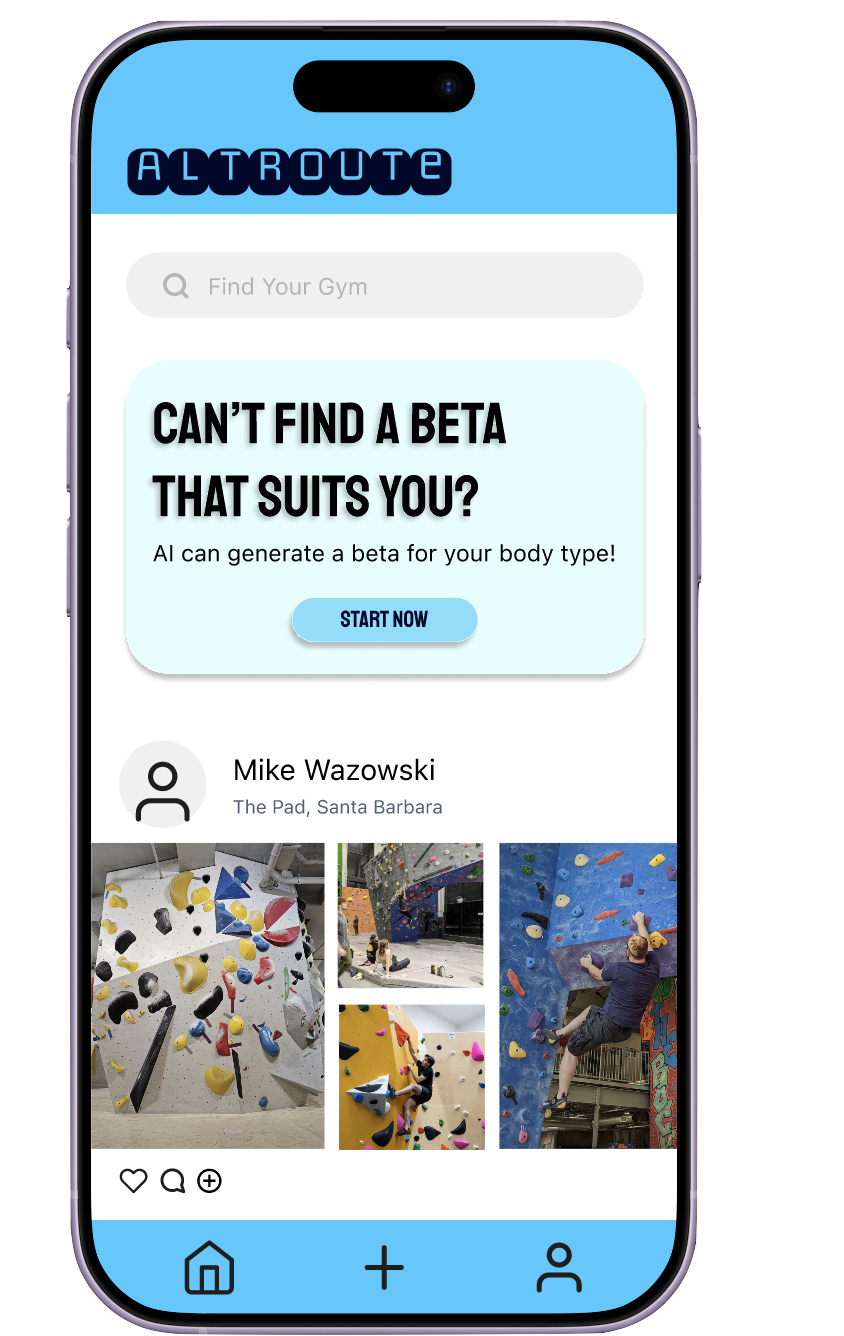
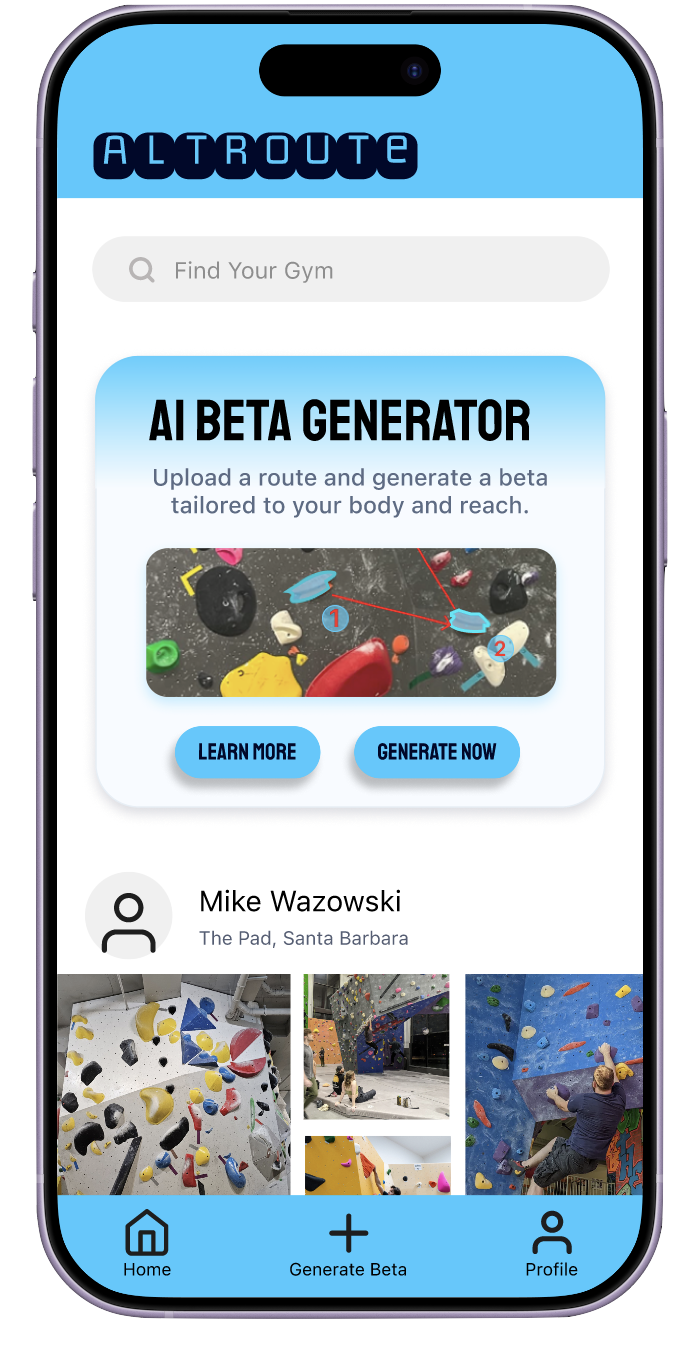
update GR9

diff --git a/index.html b/index.html
@@ -108,7 +108,14 @@ nav {
 .btn-ghost:hover { border-color: white; background: rgba(255,255,255,0.08); }
 
 .hero-right { display: flex; justify-content: center; position: relative; z-index: 1; }
-.phone-wrap { position: relative; width: min(360px, 78vw); animation: float 5s ease-in-out infinite; }
+.phone-wrap {
+  position: relative;
+  width: min(346px, 78vw);
+  animation: float 5s ease-in-out infinite;
+  will-change: transform;
+  transform: translateZ(0);
+  backface-visibility: hidden;
+}
 @keyframes float { 0%,100%{transform:translateY(0)} 50%{transform:translateY(-12px)} }
 
 .chalk-ring {
@@ -132,7 +139,14 @@ nav {
 .phone-body { flex: 1; background: white; display: flex; flex-direction: column; overflow: hidden; }
 .phone-shot { width: 100%; height: 100%; object-fit: cover; display: block; }
 .phone-proto-embed { flex: 1; width: 100%; border: none; }
-.hero-proto-shot { width: 100%; height: auto; display: block; border-radius: 28px; box-shadow: 0 22px 48px rgba(0,0,0,0.38); }
+.hero-proto-shot {
+  width: 100%;
+  height: auto;
+  display: block;
+  border-radius: 28px;
+  box-shadow: 0 22px 48px rgba(0,0,0,0.38);
+  image-rendering: -webkit-optimize-contrast;
+}
 .phone-header { background: #1ec8e0; padding: 10px 14px 12px; font-weight: 800; font-size: 1.3rem; letter-spacing: 0.1em; text-transform: uppercase; color: #0a1a2e; }
 .phone-content { flex: 1; padding: 11px 12px; display: flex; flex-direction: column; gap: 9px; overflow: hidden; }
 .phone-search { background: #f0f0f0; border-radius: 20px; padding: 7px 12px; font-size: 0.67rem; color: #999; display: flex; align-items: center; gap: 5px; }
@@ -311,8 +325,34 @@ section { padding: 80px 72px; }
 .d-card { background: #f7fbfd; border: 1.5px solid #dde8f0; border-radius: 14px; overflow: hidden; }
 .d-head { padding: 14px 14px 8px; font-size: 0.85rem; font-weight: 800; color: #0a1a2e; }
 .d-preview { aspect-ratio: 16/10; background: #eaf3f8; border-top: 1px solid #dde8f0; border-bottom: 1px solid #dde8f0; position: relative; }
+.d-preview a { display: block; width: 100%; height: 100%; }
 .d-preview iframe { width: 100%; height: 100%; border: none; }
 .d-preview img { width: 100%; height: 100%; object-fit: cover; display: block; }
+.d-preview-video { position: relative; overflow: hidden; }
+.d-preview-video::after {
+  content: "";
+  position: absolute;
+  inset: 0;
+  background: linear-gradient(135deg, rgba(20,40,56,0.35), rgba(10,26,46,0.45));
+  pointer-events: none;
+}
+.d-play {
+  position: absolute;
+  top: 50%;
+  left: 50%;
+  transform: translate(-50%, -50%);
+  width: 54px;
+  height: 54px;
+  border-radius: 50%;
+  z-index: 2;
+  border: 2px solid rgba(255,255,255,0.45);
+  background: rgba(30,200,224,0.88);
+  display: grid;
+  place-items: center;
+  transition: transform 0.18s ease, background 0.18s ease;
+}
+.d-play svg { width: 16px; height: 16px; fill: #fff; margin-left: 2px; }
+.d-preview-video:hover .d-play { transform: translate(-50%, -50%) scale(1.05); background: #1ec8e0; }
 .d-preview-empty { height: 100%; display: grid; place-items: center; font-size: 0.8rem; color: #6f8090; text-align: center; padding: 12px; }
 .d-links { padding: 10px 14px 14px; display: flex; gap: 10px; flex-wrap: wrap; }
 .d-links a { font-size: 0.76rem; color: #0a1a2e; text-decoration: none; border-bottom: 1px solid #9bb3c4; }
@@ -491,14 +531,14 @@ footer { background: #0a1a2e; color: rgba(255,255,255,0.5); padding: 32px 72px; 
   <div class="proto-layout">
     <div class="reveal">
       <div class="proto-embed-wrap">
-        <iframe src="https://www.figma.com/embed?embed_host=share&hide-ui=1&url=https://www.figma.com/proto/mm2RdzlnWcByrynOd0TpXq/AltRoute?node-id=0-1&t=cCM0v3kg4W2yWc03-1" allowfullscreen title="AltRoute Figma Prototype"></iframe>
+        <iframe src="https://www.figma.com/embed?embed_host=share&hide-ui=1&url=https://www.figma.com/proto/mm2RdzlnWcByrynOd0TpXq/AltRoute?node-id=534-2516&p=f&t=t2ydLlWDmUYe9aXR-1&scaling=scale-down&content-scaling=fixed&page-id=344%3A293&starting-point-node-id=534%3A2516&show-proto-sidebar=1" allowfullscreen title="AltRoute Figma Prototype"></iframe>
       </div>
     </div>
     <div class="proto-side reveal" style="transition-delay:0.12s">
       <div class="proto-cta">
         <h3>Open Prototype in Figma</h3>
         <p>Explore the interactive prototype — generate personalized beta and follow AI-powered step-by-step guidance.</p>
-        <a href="https://www.figma.com/proto/mm2RdzlnWcByrynOd0TpXq/AltRoute?node-id=0-1&t=cCM0v3kg4W2yWc03-1" target="_blank" rel="noopener" class="btn-dark">↗ Open Prototype</a>
+        <a href="https://www.figma.com/proto/mm2RdzlnWcByrynOd0TpXq/AltRoute?node-id=534-2516&p=f&t=t2ydLlWDmUYe9aXR-1&scaling=scale-down&content-scaling=fixed&page-id=344%3A293&starting-point-node-id=534%3A2516&show-proto-sidebar=1" target="_blank" rel="noopener" class="btn-dark">↗ Open Prototype</a>
       </div>
       <div class="task-list">
         <div class="task">
@@ -588,8 +628,11 @@ footer { background: #0a1a2e; color: rgba(255,255,255,0.5); padding: 32px 72px; 
     </article>
     <article class="d-card reveal" style="transition-delay:0.1s">
       <div class="d-head">GR4 - Concept Video</div>
-      <div class="d-preview">
-        <img src="images/concept-video.jpg" alt="GR4 concept video preview">
+      <div class="d-preview d-preview-video">
+        <a href="https://www.youtube.com/embed/RCPi7rZCIkg?autoplay=1" target="_blank" rel="noopener" aria-label="Open GR4 concept video">
+          <img src="images/concept-video.jpg" alt="GR4 concept video preview">
+          <span class="d-play" aria-hidden="true"><svg viewBox="0 0 24 24"><polygon points="5 3 19 12 5 21 5 3"/></svg></span>
+        </a>
       </div>
       <div class="d-links"><a href="https://www.youtube.com/embed/RCPi7rZCIkg?autoplay=1" target="_blank" rel="noopener">Open Video</a></div>
     </article>
@@ -611,11 +654,29 @@ footer { background: #0a1a2e; color: rgba(255,255,255,0.5); padding: 32px 72px; 
       </div>
     </article>
     <article class="d-card reveal" style="transition-delay:0.25s">
-      <div class="d-head">GR9 - Poster, Pitch &amp; Video of the Figma hi-fi prototype</div>
-      <div class="d-preview"><div class="d-preview-empty">Upload materials by noon today.</div></div>
-      <div class="d-links"><a href="https://www.canva.com/" target="_blank" rel="noopener">Open Link</a></div>
+      <div class="d-head">GR8 - Wizard-of-Oz Testing &amp; Mid-Fi Refinement</div>
+      <div class="d-preview">
+        <iframe src="https://www.canva.com/design/DAHDUPCFb1A/RvDFJ61i6n3fVSazHSEW7w/view?embed" loading="lazy" title="GR8 preview"></iframe>
+      </div>
+      <div class="d-links"><a href="https://www.canva.com/design/DAHDUPCFb1A/RvDFJ61i6n3fVSazHSEW7w/view?utm_content=DAHDUPCFb1A&utm_campaign=designshare&utm_medium=link2&utm_source=uniquelinks&utlId=h8bb4b09dcf" target="_blank" rel="noopener">Open Link</a></div>
     </article>
     <article class="d-card reveal" style="transition-delay:0.3s">
+      <div class="d-head">GR9 - Pitch</div>
+      <div class="d-preview">
+        <iframe src="https://www.canva.com/design/DAHDqYz70DM/n_ArFcN7XSENsX-XjV0rlw/view?embed" loading="lazy" title="GR9 pitch preview"></iframe>
+      </div>
+      <div class="d-links">
+        <a href="https://www.canva.com/design/DAHDqYz70DM/n_ArFcN7XSENsX-XjV0rlw/view?utm_content=DAHDqYz70DM&utm_campaign=designshare&utm_medium=link2&utm_source=uniquelinks&utlId=h05721d6c76" target="_blank" rel="noopener">Open Link</a>
+      </div>
+    </article>
+    <article class="d-card reveal" style="transition-delay:0.35s">
+      <div class="d-head">GR9 - Poster</div>
+      <div class="d-preview">
+        <img src="images/poster.jpg" alt="GR9 poster preview">
+      </div>
+      <div class="d-links"><a href="images/poster.jpg" target="_blank" rel="noopener">Open Poster</a></div>
+    </article>
+    <article class="d-card reveal" style="transition-delay:0.4s">
       <div class="d-head">GR10 - Final Report</div>
       <div class="d-preview"><div class="d-preview-empty">Preview pending</div></div>
       <div class="d-links"><a href="https://docs.google.com/" target="_blank" rel="noopener">Open Link</a></div>
